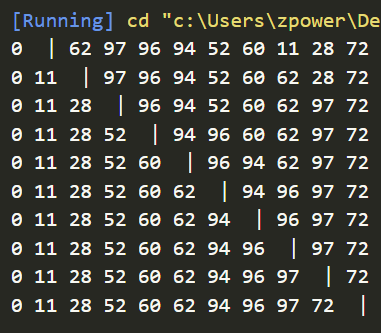
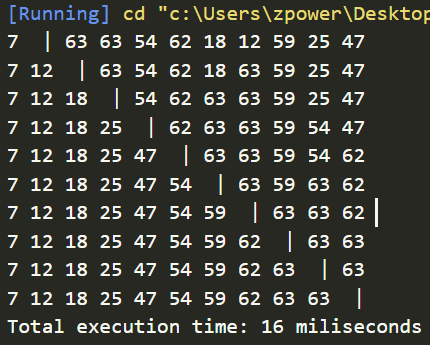
update

diff --git a/SortTimeComparison/timeComparison.java b/SortTimeComparison/timeComparison.java
@@ -1,0 +1,87 @@
+import javax.swing.*;
+
+public class timeComparison {
+    public static void main(String[] args){
+        
+        int[] arr;
+        JFrame frame = new JFrame();
+
+        frame.setDefaultCloseOperation(JFrame.EXIT_ON_CLOSE);
+        frame.setSize(800, 800);
+        frame.setVisible(true);
+
+
+        for(int i = 0; i < 200; i += 25){
+            
+        }
+    }
+
+    public static int InsertionSort(int[] arr){
+        
+        final long startTime = System.currentTimeMillis();
+        int swapIndex = 0;
+        int element = 0;
+
+        for(int i = 0; i < arr.length; i++){
+            
+            //find index to insert
+            for(int k = i-1; k >= 0; k--){
+                if(arr[i] > arr[k]){
+                    swapIndex = k+1;
+                    break;
+                }
+                if(k == 0){
+                    swapIndex = 0;
+                }
+            }
+
+            //store element
+            element = arr[i];
+
+            //shift elements
+            for(int k = i; k > swapIndex; k--){
+                arr[k] = arr[k-1];
+            }
+
+            //insert element
+            arr[swapIndex] = element;
+        }
+        final long endTime = System.currentTimeMillis();
+
+        return (int)(endTime-startTime);
+    }
+
+    public static int SelectionSort(int[] arr){
+
+        final long startTime = System.currentTimeMillis();
+        int minIndex = 0;
+        int temp = 0;
+
+        for(int i = 0; i < arr.length; i++){
+            
+            //assign minimum to i
+            minIndex = i;
+
+            //look for minimum
+            for(int j = i; j < arr.length; j++){
+                if(arr[minIndex] > arr[j]){
+                    minIndex = j;
+                }
+            }
+
+            //swap minimumIndex and arr[i]
+            temp = arr[i];
+            arr[i] = arr[minIndex];
+            arr[minIndex] = temp;
+
+
+
+
+        }
+
+        final long endTime = System.currentTimeMillis();
+
+        return (int)(endTime-startTime);
+
+    }
+}

diff --git a/PA/PA3/SelectionSort.java b/PA/PA3/SelectionSort.java
@@ -8,6 +8,8 @@ public class SelectionSort {
         for(int i = 0; i < arr.length; i++){
             arr[i] = (int)(Math.random()*100);
         }
+        
+        final long startTime = System.currentTimeMillis();
 
         for(int i = 0; i < arr.length; i++){
             
@@ -15,29 +17,36 @@ public class SelectionSort {
             minIndex = i;
 
             //look for minimum
-            for(int j = i; j < arr.length-1; j++){
+            for(int j = i; j < arr.length; j++){
                 if(arr[minIndex] > arr[j]){
                     minIndex = j;
                 }
             }
 
-            //swap minimum and i
+            //swap minimumIndex and arr[i]
             temp = arr[i];
             arr[i] = arr[minIndex];
             arr[minIndex] = temp;
 
             //print array
+
+            //sorted portion
             for(int k = 0; k <= i; k++){
                 System.out.print(arr[k] + " ");
             }
             
             System.out.print(" | ");
 
+            //not sorted portion
             for(int k = i+1; k < arr.length; k++){
                 System.out.print(arr[k] + " ");
             }
             System.out.println();
 
         }
+
+        final long endTime = System.currentTimeMillis();
+
+        System.out.println("Total execution time: " + (endTime - startTime) + " miliseconds");
     }
 }

diff --git a/PA/PA3/Insertion.java b/PA/PA3/Insertion.java
@@ -1,7 +1,7 @@
 public class Insertion {
     public static void main(String args[]){
         
-        int[] arr = {10, 9, 8, 7, 6, 5, 4, 3, 2, 1};
+        int[] arr = new int[10];
         int swapIndex = 0;
         int element = 0;
 
